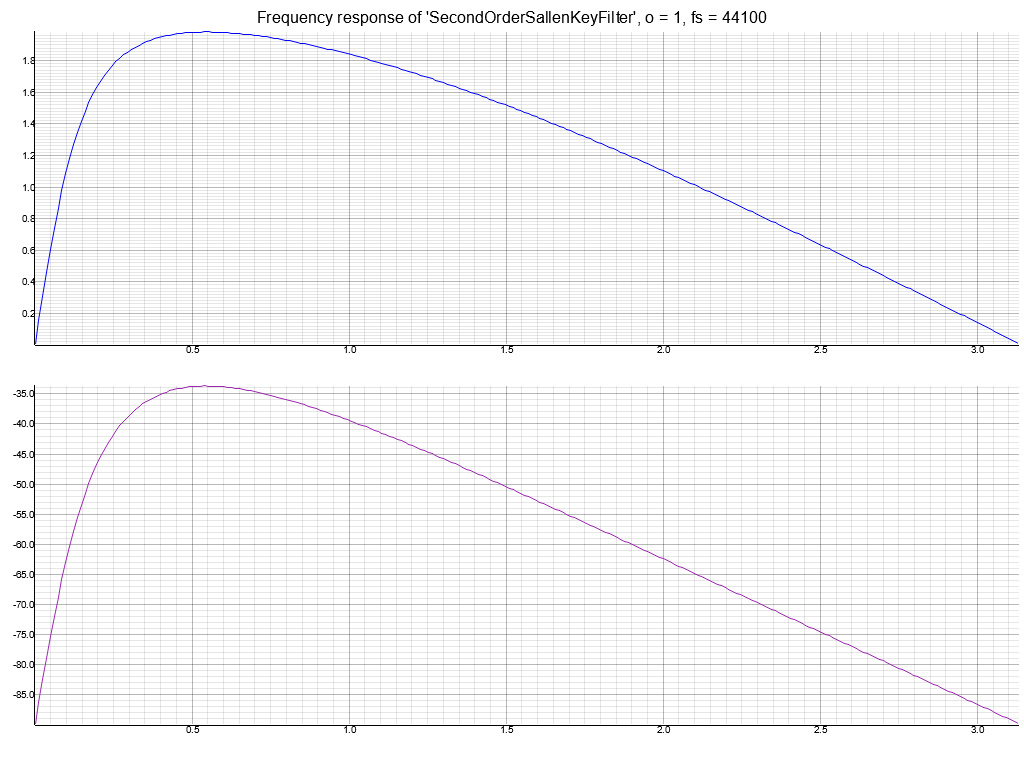
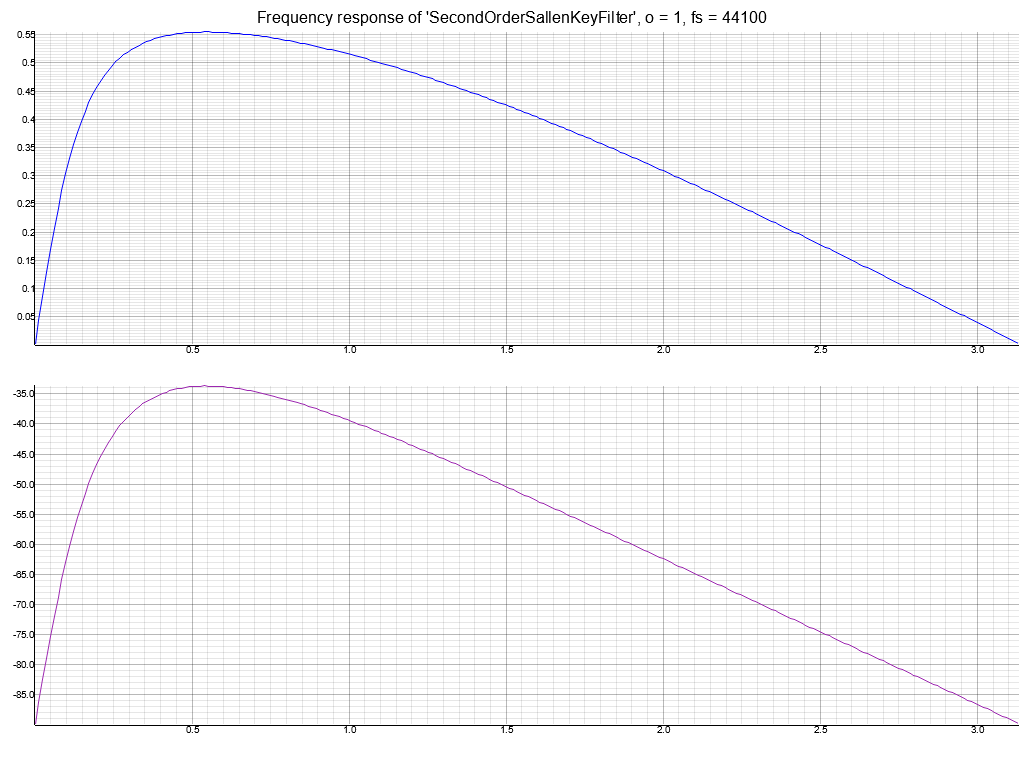
Fix sallen-key gain

Changed region(s): [[0.0, 0.0303, 1.0, 0.4539]]

diff --git a/src/iir/third/third_order_sallen_key_filter.rs b/src/iir/third/third_order_sallen_key_filter.rs
@@ -122,53 +122,53 @@ where
         
         ([], [
             [
-                g*r1*(g*r1),
-                g*r1*(f!(3.0)*g*r1),
-                g*r1*(f!(3.0)*g*r1),
-                g*r1*(g*r1),
+                g*r2*f!(1.0),
+                g*r2*f!(3.0),
+                g*r2*f!(3.0),
+                g*r2*f!(1.0),
             ],
             [
-                g*r1*(g*r1),
-                g*r1*(f!(3.0)*g*r1),
-                g*r1*(f!(3.0)*g*r1),
-                g*r1*(g*r1),
+                c1*g*r1*r2*rate*f!(2.0),
+                c1*g*r1*r2*rate*f!(2.0),
+                c1*g*r1*r2*rate*f!(-2.0),
+                c1*g*r1*r2*rate*f!(-2.0),
             ],
             [
-                c2*c2*g*r1*r2*rate2*(f!(4.0)*c2*c2*g*r1*r2*rate2),
-                c2*c2*g*r1*r2*rate2*(-f!(4.0)*c2*c2*g*r1*r2*rate2),
-                c2*c2*g*r1*r2*rate2*(-f!(4.0)*c2*c2*g*r1*r2*rate2),
-                c2*c2*g*r1*r2*rate2*(f!(4.0)*c2*c2*g*r1*r2*rate2),
+                c2*g*r2*rate*f!(2.0),
+                c2*g*r2*rate*f!(2.0),
+                c2*g*r2*rate*f!(-2.0),
+                c2*g*r2*rate*f!(-2.0),
             ],
             [
-                c2*c2*g*r1*r2*rate2*(f!(4.0)*c2*c2*g*r1*r2*rate2),
-                c2*c2*g*r1*r2*rate2*(-f!(4.0)*c2*c2*g*r1*r2*rate2),
-                c2*c2*g*r1*r2*rate2*(-f!(4.0)*c2*c2*g*r1*r2*rate2),
-                c2*c2*g*r1*r2*rate2*(f!(4.0)*c2*c2*g*r1*r2*rate2),
+                c1*c2*g*r1*r2*rate2*f!(4.0),
+                c1*c2*g*r1*r2*rate2*f!(-4.0),
+                c1*c2*g*r1*r2*rate2*f!(-4.0),
+                c1*c2*g*r1*r2*rate2*f!(4.0),
             ],
             [
-                c3*g*r1*r3*rate*(f!(2.0)*c3*g*r1*r3*rate),
-                c3*g*r1*r3*rate*(f!(2.0)*c3*g*r1*r3*rate),
-                c3*g*r1*r3*rate*(-f!(2.0)*c3*g*r1*r3*rate),
-                c3*g*r1*r3*rate*(-f!(2.0)*c3*g*r1*r3*rate),
+                c3*g*r2*r3*rate*f!(2.0),
+                c3*g*r2*r3*rate*f!(2.0),
+                c3*g*r2*r3*rate*f!(-2.0),
+                c3*g*r2*r3*rate*f!(-2.0),
             ],
             [
-                c3*g*r1*r3*rate*(f!(2.0)*c3*g*r1*r3*rate),
-                c3*g*r1*r3*rate*(f!(2.0)*c3*g*r1*r3*rate),
-                c3*g*r1*r3*rate*(-f!(2.0)*c3*g*r1*r3*rate),
-                c3*g*r1*r3*rate*(-f!(2.0)*c3*g*r1*r3*rate),
+                c1*c3*g*r1*r2*r3*rate2*f!(4.0),
+                c1*c3*g*r1*r2*r3*rate2*f!(-4.0),
+                c1*c3*g*r1*r2*r3*rate2*f!(-4.0),
+                c1*c3*g*r1*r2*r3*rate2*f!(4.0),
             ],
             [
-                c2*c2*c3*g*r1*r2*r3*rate3*(f!(8.0)*c2*c2*c3*g*r1*r2*r3*rate3),
-                c2*c2*c3*g*r1*r2*r3*rate3*(-f!(24.0)*c2*c2*c3*g*r1*r2*r3*rate3),
-                c2*c2*c3*g*r1*r2*r3*rate3*(f!(24.0)*c2*c2*c3*g*r1*r2*r3*rate3),
-                c2*c2*c3*g*r1*r2*r3*rate3*(-f!(8.0)*c2*c2*c3*g*r1*r2*r3*rate3),
+                c2*c3*g*r2*r3*rate2*f!(4.0),
+                c2*c3*g*r2*r3*rate2*f!(-4.0),
+                c2*c3*g*r2*r3*rate2*f!(-4.0),
+                c2*c3*g*r2*r3*rate2*f!(4.0),
             ],
             [
-                c2*c2*c3*g*r1*r2*r3*rate3*(f!(8.0)*c2*c2*c3*g*r1*r2*r3*rate3),
-                c2*c2*c3*g*r1*r2*r3*rate3*(-f!(24.0)*c2*c2*c3*g*r1*r2*r3*rate3),
-                c2*c2*c3*g*r1*r2*r3*rate3*(f!(24.0)*c2*c2*c3*g*r1*r2*r3*rate3),
-                c2*c2*c3*g*r1*r2*r3*rate3*(-f!(8.0)*c2*c2*c3*g*r1*r2*r3*rate3),
-            ]
+                c1*c2*c3*g*r1*r2*r3*rate3*f!(8.0),
+                c1*c2*c3*g*r1*r2*r3*rate3*f!(-24.0),
+                c1*c2*c3*g*r1*r2*r3*rate3*f!(24.0),
+                c1*c2*c3*g*r1*r2*r3*rate3*f!(-8.0),
+            ],
         ])
     }
     
@@ -187,53 +187,53 @@ where
 
         Some(([], [
             [
-                r2*(r2 + f!(2.0)*c3*r2*r3*rate + f!(2.0)*c3*r2*r2*rate + f!(2.0)*c3*r1*r2*rate - f!(2.0)*c2*g*r2*r2*rate - f!(2.0)*c2*g*r1*r2*rate + f!(2.0)*c2*r2*r2*rate + f!(2.0)*c2*r1*r2*rate + f!(4.0)*c2*c3*r2*r2*r3*rate2 + f!(4.0)*c2*c3*r1*r2*r3*rate2 + f!(2.0)*c1*r1*r2*rate + f!(4.0)*c1*c3*r1*r2*r3*rate2 + f!(4.0)*c1*c3*r1*r2*r2*rate2 - f!(4.0)*c1*c2*g*r1*r2*r2*rate2 + f!(4.0)*c1*c2*r1*r2*r2*rate2 + f!(8.0)*c1*c2*c3*r1*r2*r2*r3*rate3),
-                r2*(f!(3.0)*r2 + f!(2.0)*c3*r2*r3*rate + f!(2.0)*c3*r2*r2*rate + f!(2.0)*c3*r1*r2*rate - f!(2.0)*c2*g*r2*r2*rate - f!(2.0)*c2*g*r1*r2*rate + f!(2.0)*c2*r2*r2*rate + f!(2.0)*c2*r1*r2*rate - f!(4.0)*c2*c3*r2*r2*r3*rate2 - f!(4.0)*c2*c3*r1*r2*r3*rate2 + f!(2.0)*c1*r1*r2*rate - f!(4.0)*c1*c3*r1*r2*r3*rate2 - f!(4.0)*c1*c3*r1*r2*r2*rate2 + f!(4.0)*c1*c2*g*r1*r2*r2*rate2 - f!(4.0)*c1*c2*r1*r2*r2*rate2 - f!(24.0)*c1*c2*c3*r1*r2*r2*r3*rate3),
-                r2*(f!(3.0)*r2 - f!(2.0)*c3*r2*r3*rate - f!(2.0)*c3*r2*r2*rate - f!(2.0)*c3*r1*r2*rate + f!(2.0)*c2*g*r2*r2*rate + f!(2.0)*c2*g*r1*r2*rate - f!(2.0)*c2*r2*r2*rate - f!(2.0)*c2*r1*r2*rate - f!(4.0)*c2*c3*r2*r2*r3*rate2 - f!(4.0)*c2*c3*r1*r2*r3*rate2 - f!(2.0)*c1*r1*r2*rate - f!(4.0)*c1*c3*r1*r2*r3*rate2 - f!(4.0)*c1*c3*r1*r2*r2*rate2 + f!(4.0)*c1*c2*g*r1*r2*r2*rate2 - f!(4.0)*c1*c2*r1*r2*r2*rate2 + f!(24.0)*c1*c2*c3*r1*r2*r2*r3*rate3),
-                r2*(r2 - f!(2.0)*c3*r2*r3*rate - f!(2.0)*c3*r2*r2*rate - f!(2.0)*c3*r1*r2*rate + f!(2.0)*c2*g*r2*r2*rate + f!(2.0)*c2*g*r1*r2*rate - f!(2.0)*c2*r2*r2*rate - f!(2.0)*c2*r1*r2*rate + f!(4.0)*c2*c3*r2*r2*r3*rate2 + f!(4.0)*c2*c3*r1*r2*r3*rate2 - f!(2.0)*c1*r1*r2*rate + f!(4.0)*c1*c3*r1*r2*r3*rate2 + f!(4.0)*c1*c3*r1*r2*r2*rate2 - f!(4.0)*c1*c2*g*r1*r2*r2*rate2 + f!(4.0)*c1*c2*r1*r2*r2*rate2 - f!(8.0)*c1*c2*c3*r1*r2*r2*r3*rate3),
+                f!(8.0)*c1*c2*c3*r1*r2*r2*r3*rate3 + f!(4.0)*c1*c2*r1*r2*r2*rate2 - f!(4.0)*c1*c2*g*r1*r2*r2*rate2 + f!(4.0)*c1*c3*r1*r2*r3*rate2 + f!(4.0)*c1*c3*r1*r2*r2*rate2 + f!(2.0)*c1*r1*r2*rate + f!(4.0)*c2*c3*r2*r2*r3*rate2 + f!(4.0)*c2*c3*r1*r2*r3*rate2 + f!(2.0)*c2*r2*r2*rate + f!(2.0)*c2*r1*r2*rate - f!(2.0)*c2*g*r2*r2*rate - f!(2.0)*c2*g*r1*r2*rate + f!(2.0)*c3*r2*r3*rate + f!(2.0)*c3*r2*r2*rate + f!(4.0)*c3*r1*r3*rate + f!(2.0)*c3*r1*r2*rate + r2 + f!(2.0)*r1,
+                -f!(24.0)*c1*c2*c3*r1*r2*r2*r3*rate3 - f!(4.0)*c1*c2*r1*r2*r2*rate2 + f!(4.0)*c1*c2*g*r1*r2*r2*rate2 - f!(4.0)*c1*c3*r1*r2*r3*rate2 - f!(4.0)*c1*c3*r1*r2*r2*rate2 + f!(2.0)*c1*r1*r2*rate - f!(4.0)*c2*c3*r2*r2*r3*rate2 - f!(4.0)*c2*c3*r1*r2*r3*rate2 + f!(2.0)*c2*r2*r2*rate + f!(2.0)*c2*r1*r2*rate - f!(2.0)*c2*g*r2*r2*rate - f!(2.0)*c2*g*r1*r2*rate + f!(2.0)*c3*r2*r3*rate + f!(2.0)*c3*r2*r2*rate + f!(4.0)*c3*r1*r3*rate + f!(2.0)*c3*r1*r2*rate + f!(3.0)*r2 + f!(6.0)*r1,
+                f!(24.0)*c1*c2*c3*r1*r2*r2*r3*rate3 - f!(4.0)*c1*c2*r1*r2*r2*rate2 + f!(4.0)*c1*c2*g*r1*r2*r2*rate2 - f!(4.0)*c1*c3*r1*r2*r3*rate2 - f!(4.0)*c1*c3*r1*r2*r2*rate2 - f!(2.0)*c1*r1*r2*rate - f!(4.0)*c2*c3*r2*r2*r3*rate2 - f!(4.0)*c2*c3*r1*r2*r3*rate2 - f!(2.0)*c2*r2*r2*rate - f!(2.0)*c2*r1*r2*rate + f!(2.0)*c2*g*r2*r2*rate + f!(2.0)*c2*g*r1*r2*rate - f!(2.0)*c3*r2*r3*rate - f!(2.0)*c3*r2*r2*rate - f!(4.0)*c3*r1*r3*rate - f!(2.0)*c3*r1*r2*rate + f!(3.0)*r2 + f!(6.0)*r1,
+                -f!(8.0)*c1*c2*c3*r1*r2*r2*r3*rate3 + f!(4.0)*c1*c2*r1*r2*r2*rate2 - f!(4.0)*c1*c2*g*r1*r2*r2*rate2 + f!(4.0)*c1*c3*r1*r2*r3*rate2 + f!(4.0)*c1*c3*r1*r2*r2*rate2 - f!(2.0)*c1*r1*r2*rate + f!(4.0)*c2*c3*r2*r2*r3*rate2 + f!(4.0)*c2*c3*r1*r2*r3*rate2 - f!(2.0)*c2*r2*r2*rate - f!(2.0)*c2*r1*r2*rate + f!(2.0)*c2*g*r2*r2*rate + f!(2.0)*c2*g*r1*r2*rate - f!(2.0)*c3*r2*r3*rate - f!(2.0)*c3*r2*r2*rate - f!(4.0)*c3*r1*r3*rate - f!(2.0)*c3*r1*r2*rate + r2 + f!(2.0)*r1,
             ],
             [
-                r2*(f!(2.0)*c1*r1*r2*rate + f!(4.0)*c1*c3*r1*r2*r3*rate2 + f!(4.0)*c1*c3*r1*r2*r2*rate2 - f!(4.0)*c1*c2*g*r1*r2*r2*rate2 + f!(4.0)*c1*c2*r1*r2*r2*rate2 + f!(8.0)*c1*c2*c3*r1*r2*r2*r3*rate3 + r2 + f!(2.0)*c3*r1*r2*rate + f!(2.0)*c3*r2*r3*rate + f!(2.0)*c3*r2*r2*rate - f!(2.0)*c2*g*r1*r2*rate - f!(2.0)*c2*g*r2*r2*rate + f!(2.0)*c2*r1*r2*rate + f!(2.0)*c2*r2*r2*rate + f!(4.0)*c2*c3*r1*r2*r3*rate2 + f!(4.0)*c2*c3*r2*r2*r3*rate2),
-                r2*(f!(2.0)*c1*r1*r2*rate - f!(4.0)*c1*c3*r1*r2*r3*rate2 - f!(4.0)*c1*c3*r1*r2*r2*rate2 + f!(4.0)*c1*c2*g*r1*r2*r2*rate2 - f!(4.0)*c1*c2*r1*r2*r2*rate2 - f!(24.0)*c1*c2*c3*r1*r2*r2*r3*rate3 + f!(3.0)*r2 + f!(2.0)*c3*r1*r2*rate + f!(2.0)*c3*r2*r3*rate + f!(2.0)*c3*r2*r2*rate - f!(2.0)*c2*g*r1*r2*rate - f!(2.0)*c2*g*r2*r2*rate + f!(2.0)*c2*r1*r2*rate + f!(2.0)*c2*r2*r2*rate - f!(4.0)*c2*c3*r1*r2*r3*rate2 - f!(4.0)*c2*c3*r2*r2*r3*rate2),
-                r2*(-f!(2.0)*c1*r1*r2*rate - f!(4.0)*c1*c3*r1*r2*r3*rate2 - f!(4.0)*c1*c3*r1*r2*r2*rate2 + f!(4.0)*c1*c2*g*r1*r2*r2*rate2 - f!(4.0)*c1*c2*r1*r2*r2*rate2 + f!(24.0)*c1*c2*c3*r1*r2*r2*r3*rate3 + f!(3.0)*r2 - f!(2.0)*c3*r1*r2*rate - f!(2.0)*c3*r2*r3*rate - f!(2.0)*c3*r2*r2*rate + f!(2.0)*c2*g*r1*r2*rate + f!(2.0)*c2*g*r2*r2*rate - f!(2.0)*c2*r1*r2*rate - f!(2.0)*c2*r2*r2*rate - f!(4.0)*c2*c3*r1*r2*r3*rate2 - f!(4.0)*c2*c3*r2*r2*r3*rate2),
-                r2*(-f!(2.0)*c1*r1*r2*rate + f!(4.0)*c1*c3*r1*r2*r3*rate2 + f!(4.0)*c1*c3*r1*r2*r2*rate2 - f!(4.0)*c1*c2*g*r1*r2*r2*rate2 + f!(4.0)*c1*c2*r1*r2*r2*rate2 - f!(8.0)*c1*c2*c3*r1*r2*r2*r3*rate3 + r2 - f!(2.0)*c3*r1*r2*rate - f!(2.0)*c3*r2*r3*rate - f!(2.0)*c3*r2*r2*rate + f!(2.0)*c2*g*r1*r2*rate + f!(2.0)*c2*g*r2*r2*rate - f!(2.0)*c2*r1*r2*rate - f!(2.0)*c2*r2*r2*rate + f!(4.0)*c2*c3*r1*r2*r3*rate2 + f!(4.0)*c2*c3*r2*r2*r3*rate2),
+                f!(8.0)*c1*c2*c3*r1*r2*r2*r3*rate3 + f!(4.0)*c1*c2*r1*r2*r2*rate2 - f!(4.0)*c1*c2*g*r1*r2*r2*rate2 + f!(4.0)*c1*c3*r1*r2*r3*rate2 + f!(4.0)*c1*c3*r1*r2*r2*rate2 + f!(2.0)*c1*r1*r2*rate + f!(4.0)*c2*c3*r1*r2*r3*rate2 + f!(4.0)*c2*c3*r2*r2*r3*rate2 + f!(2.0)*c2*r1*r2*rate + f!(2.0)*c2*r2*r2*rate - f!(2.0)*c2*g*r1*r2*rate - f!(2.0)*c2*g*r2*r2*rate + f!(4.0)*c3*r1*r3*rate + f!(2.0)*c3*r1*r2*rate + f!(2.0)*c3*r2*r3*rate + f!(2.0)*c3*r2*r2*rate + f!(2.0)*r1 + r2,
+                -f!(24.0)*c1*c2*c3*r1*r2*r2*r3*rate3 - f!(4.0)*c1*c2*r1*r2*r2*rate2 + f!(4.0)*c1*c2*g*r1*r2*r2*rate2 - f!(4.0)*c1*c3*r1*r2*r3*rate2 - f!(4.0)*c1*c3*r1*r2*r2*rate2 + f!(2.0)*c1*r1*r2*rate - f!(4.0)*c2*c3*r1*r2*r3*rate2 - f!(4.0)*c2*c3*r2*r2*r3*rate2 + f!(2.0)*c2*r1*r2*rate + f!(2.0)*c2*r2*r2*rate - f!(2.0)*c2*g*r1*r2*rate - f!(2.0)*c2*g*r2*r2*rate + f!(4.0)*c3*r1*r3*rate + f!(2.0)*c3*r1*r2*rate + f!(2.0)*c3*r2*r3*rate + f!(2.0)*c3*r2*r2*rate + f!(6.0)*r1 + f!(3.0)*r2,
+                f!(24.0)*c1*c2*c3*r1*r2*r2*r3*rate3 - f!(4.0)*c1*c2*r1*r2*r2*rate2 + f!(4.0)*c1*c2*g*r1*r2*r2*rate2 - f!(4.0)*c1*c3*r1*r2*r3*rate2 - f!(4.0)*c1*c3*r1*r2*r2*rate2 - f!(2.0)*c1*r1*r2*rate - f!(4.0)*c2*c3*r1*r2*r3*rate2 - f!(4.0)*c2*c3*r2*r2*r3*rate2 - f!(2.0)*c2*r1*r2*rate - f!(2.0)*c2*r2*r2*rate + f!(2.0)*c2*g*r1*r2*rate + f!(2.0)*c2*g*r2*r2*rate - f!(4.0)*c3*r1*r3*rate - f!(2.0)*c3*r1*r2*rate - f!(2.0)*c3*r2*r3*rate - f!(2.0)*c3*r2*r2*rate + f!(6.0)*r1 + f!(3.0)*r2,
+                -f!(8.0)*c1*c2*c3*r1*r2*r2*r3*rate3 + f!(4.0)*c1*c2*r1*r2*r2*rate2 - f!(4.0)*c1*c2*g*r1*r2*r2*rate2 + f!(4.0)*c1*c3*r1*r2*r3*rate2 + f!(4.0)*c1*c3*r1*r2*r2*rate2 - f!(2.0)*c1*r1*r2*rate + f!(4.0)*c2*c3*r1*r2*r3*rate2 + f!(4.0)*c2*c3*r2*r2*r3*rate2 - f!(2.0)*c2*r1*r2*rate - f!(2.0)*c2*r2*r2*rate + f!(2.0)*c2*g*r1*r2*rate + f!(2.0)*c2*g*r2*r2*rate - f!(4.0)*c3*r1*r3*rate - f!(2.0)*c3*r1*r2*rate - f!(2.0)*c3*r2*r3*rate - f!(2.0)*c3*r2*r2*rate + f!(2.0)*r1 + r2,
             ],
             [
-                -g + f!(1.0) + f!(2.0)*c3*r2*rate + f!(2.0)*c3*r3*rate - f!(2.0)*c2*g*r1*rate + f!(2.0)*c2*r2*rate + f!(2.0)*c2*r1*rate + f!(4.0)*c2*c3*r2*r3*rate2 + f!(4.0)*c2*c3*r1*r2*rate2 + f!(4.0)*c2*c3*r1*r3*rate2 - f!(2.0)*c1*g*r1*rate + f!(2.0)*c1*r1*rate + f!(4.0)*c1*c3*r1*r2*rate2 + f!(4.0)*c1*c3*r1*r3*rate2 + f!(4.0)*c1*c2*r1*r2*rate2 + f!(8.0)*c1*c2*c3*r1*r2*r3*rate3,
-                -f!(3.0)*g + f!(3.0) + f!(2.0)*c3*r2*rate + f!(2.0)*c3*r3*rate - f!(2.0)*c2*g*r1*rate + f!(2.0)*c2*r2*rate + f!(2.0)*c2*r1*rate - f!(4.0)*c2*c3*r2*r3*rate2 - f!(4.0)*c2*c3*r1*r2*rate2 - f!(4.0)*c2*c3*r1*r3*rate2 - f!(2.0)*c1*g*r1*rate + f!(2.0)*c1*r1*rate - f!(4.0)*c1*c3*r1*r2*rate2 - f!(4.0)*c1*c3*r1*r3*rate2 - f!(4.0)*c1*c2*r1*r2*rate2 - f!(24.0)*c1*c2*c3*r1*r2*r3*rate3,
-                -f!(3.0)*g + f!(3.0) - f!(2.0)*c3*r2*rate - f!(2.0)*c3*r3*rate + f!(2.0)*c2*g*r1*rate - f!(2.0)*c2*r2*rate - f!(2.0)*c2*r1*rate - f!(4.0)*c2*c3*r2*r3*rate2 - f!(4.0)*c2*c3*r1*r2*rate2 - f!(4.0)*c2*c3*r1*r3*rate2 + f!(2.0)*c1*g*r1*rate - f!(2.0)*c1*r1*rate - f!(4.0)*c1*c3*r1*r2*rate2 - f!(4.0)*c1*c3*r1*r3*rate2 - f!(4.0)*c1*c2*r1*r2*rate2 + f!(24.0)*c1*c2*c3*r1*r2*r3*rate3,
-                -g + f!(1.0) - f!(2.0)*c3*r2*rate - f!(2.0)*c3*r3*rate + f!(2.0)*c2*g*r1*rate - f!(2.0)*c2*r2*rate - f!(2.0)*c2*r1*rate + f!(4.0)*c2*c3*r2*r3*rate2 + f!(4.0)*c2*c3*r1*r2*rate2 + f!(4.0)*c2*c3*r1*r3*rate2 + f!(2.0)*c1*g*r1*rate - f!(2.0)*c1*r1*rate + f!(4.0)*c1*c3*r1*r2*rate2 + f!(4.0)*c1*c3*r1*r3*rate2 + f!(4.0)*c1*c2*r1*r2*rate2 - f!(8.0)*c1*c2*c3*r1*r2*r3*rate3,
+                f!(4.0)*c1*c3*r1*r2*rate2 + f!(4.0)*c1*c3*r1*r3*rate2 + f!(2.0)*c1*r1*rate - f!(2.0)*c1*g*r1*rate + f!(8.0)*c1*c2*c3*r1*r2*r3*rate3 + f!(4.0)*c1*c2*r1*r2*rate2 + f!(2.0)*c3*r2*rate + f!(2.0)*c3*r3*rate + f!(1.0) - g + f!(4.0)*c2*c3*r2*r3*rate2 + f!(4.0)*c2*c3*r1*r2*rate2 + f!(4.0)*c2*c3*r1*r3*rate2 + f!(2.0)*c2*r2*rate + f!(2.0)*c2*r1*rate - f!(2.0)*c2*g*r1*rate + f!(16.0)*c2*c2*c3*r1*r2*r3*rate3 + f!(8.0)*c2*c2*r1*r2*rate2,
+                -f!(4.0)*c1*c3*r1*r2*rate2 - f!(4.0)*c1*c3*r1*r3*rate2 + f!(2.0)*c1*r1*rate - f!(2.0)*c1*g*r1*rate - f!(24.0)*c1*c2*c3*r1*r2*r3*rate3 - f!(4.0)*c1*c2*r1*r2*rate2 + f!(2.0)*c3*r2*rate + f!(2.0)*c3*r3*rate + f!(3.0) - f!(3.0)*g - f!(4.0)*c2*c3*r2*r3*rate2 - f!(4.0)*c2*c3*r1*r2*rate2 - f!(4.0)*c2*c3*r1*r3*rate2 + f!(2.0)*c2*r2*rate + f!(2.0)*c2*r1*rate - f!(2.0)*c2*g*r1*rate - f!(48.0)*c2*c2*c3*r1*r2*r3*rate3 - f!(8.0)*c2*c2*r1*r2*rate2,
+                -f!(4.0)*c1*c3*r1*r2*rate2 - f!(4.0)*c1*c3*r1*r3*rate2 - f!(2.0)*c1*r1*rate + f!(2.0)*c1*g*r1*rate + f!(24.0)*c1*c2*c3*r1*r2*r3*rate3 - f!(4.0)*c1*c2*r1*r2*rate2 - f!(2.0)*c3*r2*rate - f!(2.0)*c3*r3*rate + f!(3.0) - f!(3.0)*g - f!(4.0)*c2*c3*r2*r3*rate2 - f!(4.0)*c2*c3*r1*r2*rate2 - f!(4.0)*c2*c3*r1*r3*rate2 - f!(2.0)*c2*r2*rate - f!(2.0)*c2*r1*rate + f!(2.0)*c2*g*r1*rate + f!(48.0)*c2*c2*c3*r1*r2*r3*rate3 - f!(8.0)*c2*c2*r1*r2*rate2,
+                f!(4.0)*c1*c3*r1*r2*rate2 + f!(4.0)*c1*c3*r1*r3*rate2 - f!(2.0)*c1*r1*rate + f!(2.0)*c1*g*r1*rate - f!(8.0)*c1*c2*c3*r1*r2*r3*rate3 + f!(4.0)*c1*c2*r1*r2*rate2 - f!(2.0)*c3*r2*rate - f!(2.0)*c3*r3*rate + f!(1.0) - g + f!(4.0)*c2*c3*r2*r3*rate2 + f!(4.0)*c2*c3*r1*r2*rate2 + f!(4.0)*c2*c3*r1*r3*rate2 - f!(2.0)*c2*r2*rate - f!(2.0)*c2*r1*rate + f!(2.0)*c2*g*r1*rate - f!(16.0)*c2*c2*c3*r1*r2*r3*rate3 + f!(8.0)*c2*c2*r1*r2*rate2,
             ],
             [
-                -f!(2.0)*c1*g*r1*rate + f!(2.0)*c1*r1*rate + f!(4.0)*c1*c3*r1*r2*rate2 + f!(4.0)*c1*c3*r1*r3*rate2 + f!(4.0)*c1*c2*r1*r2*rate2 + f!(8.0)*c1*c2*c3*r1*r2*r3*rate3 + f!(1.0) - g + f!(2.0)*c3*r2*rate + f!(2.0)*c3*r3*rate - f!(2.0)*c2*g*r1*rate + f!(2.0)*c2*r1*rate + f!(2.0)*c2*r2*rate + f!(4.0)*c2*c3*r1*r2*rate2 + f!(4.0)*c2*c3*r1*r3*rate2 + f!(4.0)*c2*c3*r2*r3*rate2,
-                -f!(2.0)*c1*g*r1*rate + f!(2.0)*c1*r1*rate - f!(4.0)*c1*c3*r1*r2*rate2 - f!(4.0)*c1*c3*r1*r3*rate2 - f!(4.0)*c1*c2*r1*r2*rate2 - f!(24.0)*c1*c2*c3*r1*r2*r3*rate3 + f!(3.0) - f!(3.0)*g + f!(2.0)*c3*r2*rate + f!(2.0)*c3*r3*rate - f!(2.0)*c2*g*r1*rate + f!(2.0)*c2*r1*rate + f!(2.0)*c2*r2*rate - f!(4.0)*c2*c3*r1*r2*rate2 - f!(4.0)*c2*c3*r1*r3*rate2 - f!(4.0)*c2*c3*r2*r3*rate2,
-                f!(2.0)*c1*g*r1*rate - f!(2.0)*c1*r1*rate - f!(4.0)*c1*c3*r1*r2*rate2 - f!(4.0)*c1*c3*r1*r3*rate2 - f!(4.0)*c1*c2*r1*r2*rate2 + f!(24.0)*c1*c2*c3*r1*r2*r3*rate3 + f!(3.0) - f!(3.0)*g - f!(2.0)*c3*r2*rate - f!(2.0)*c3*r3*rate + f!(2.0)*c2*g*r1*rate - f!(2.0)*c2*r1*rate - f!(2.0)*c2*r2*rate - f!(4.0)*c2*c3*r1*r2*rate2 - f!(4.0)*c2*c3*r1*r3*rate2 - f!(4.0)*c2*c3*r2*r3*rate2,
-                f!(2.0)*c1*g*r1*rate - f!(2.0)*c1*r1*rate + f!(4.0)*c1*c3*r1*r2*rate2 + f!(4.0)*c1*c3*r1*r3*rate2 + f!(4.0)*c1*c2*r1*r2*rate2 - f!(8.0)*c1*c2*c3*r1*r2*r3*rate3 + f!(1.0) - g - f!(2.0)*c3*r2*rate - f!(2.0)*c3*r3*rate + f!(2.0)*c2*g*r1*rate - f!(2.0)*c2*r1*rate - f!(2.0)*c2*r2*rate + f!(4.0)*c2*c3*r1*r2*rate2 + f!(4.0)*c2*c3*r1*r3*rate2 + f!(4.0)*c2*c3*r2*r3*rate2,
+                f!(4.0)*c1*c3*r1*r2*rate2 + f!(4.0)*c1*c3*r1*r3*rate2 + f!(2.0)*c1*r1*rate - f!(2.0)*c1*g*r1*rate + f!(8.0)*c1*c2*c3*r1*r2*r3*rate3 + f!(4.0)*c1*c2*r1*r2*rate2 + f!(2.0)*c3*r2*rate + f!(2.0)*c3*r3*rate + f!(1.0) - g + f!(4.0)*c2*c3*r1*r2*rate2 + f!(4.0)*c2*c3*r1*r3*rate2 + f!(4.0)*c2*c3*r2*r3*rate2 + f!(2.0)*c2*r1*rate + f!(2.0)*c2*r2*rate - f!(2.0)*c2*g*r1*rate + f!(16.0)*c2*c2*c3*r1*r2*r3*rate3 + f!(8.0)*c2*c2*r1*r2*rate2,
+                -f!(4.0)*c1*c3*r1*r2*rate2 - f!(4.0)*c1*c3*r1*r3*rate2 + f!(2.0)*c1*r1*rate - f!(2.0)*c1*g*r1*rate - f!(24.0)*c1*c2*c3*r1*r2*r3*rate3 - f!(4.0)*c1*c2*r1*r2*rate2 + f!(2.0)*c3*r2*rate + f!(2.0)*c3*r3*rate + f!(3.0) - f!(3.0)*g - f!(4.0)*c2*c3*r1*r2*rate2 - f!(4.0)*c2*c3*r1*r3*rate2 - f!(4.0)*c2*c3*r2*r3*rate2 + f!(2.0)*c2*r1*rate + f!(2.0)*c2*r2*rate - f!(2.0)*c2*g*r1*rate - f!(48.0)*c2*c2*c3*r1*r2*r3*rate3 - f!(8.0)*c2*c2*r1*r2*rate2,
+                -f!(4.0)*c1*c3*r1*r2*rate2 - f!(4.0)*c1*c3*r1*r3*rate2 - f!(2.0)*c1*r1*rate + f!(2.0)*c1*g*r1*rate + f!(24.0)*c1*c2*c3*r1*r2*r3*rate3 - f!(4.0)*c1*c2*r1*r2*rate2 - f!(2.0)*c3*r2*rate - f!(2.0)*c3*r3*rate + f!(3.0) - f!(3.0)*g - f!(4.0)*c2*c3*r1*r2*rate2 - f!(4.0)*c2*c3*r1*r3*rate2 - f!(4.0)*c2*c3*r2*r3*rate2 - f!(2.0)*c2*r1*rate - f!(2.0)*c2*r2*rate + f!(2.0)*c2*g*r1*rate + f!(48.0)*c2*c2*c3*r1*r2*r3*rate3 - f!(8.0)*c2*c2*r1*r2*rate2,
+                f!(4.0)*c1*c3*r1*r2*rate2 + f!(4.0)*c1*c3*r1*r3*rate2 - f!(2.0)*c1*r1*rate + f!(2.0)*c1*g*r1*rate - f!(8.0)*c1*c2*c3*r1*r2*r3*rate3 + f!(4.0)*c1*c2*r1*r2*rate2 - f!(2.0)*c3*r2*rate - f!(2.0)*c3*r3*rate + f!(1.0) - g + f!(4.0)*c2*c3*r1*r2*rate2 + f!(4.0)*c2*c3*r1*r3*rate2 + f!(4.0)*c2*c3*r2*r3*rate2 - f!(2.0)*c2*r1*rate - f!(2.0)*c2*r2*rate + f!(2.0)*c2*g*r1*rate - f!(16.0)*c2*c2*c3*r1*r2*r3*rate3 + f!(8.0)*c2*c2*r1*r2*rate2,
             ],
             [
-                r2*(r2 + f!(2.0)*c3*r2*r3*rate + f!(2.0)*c3*r2*r2*rate + f!(2.0)*c3*r1*r2*rate + f!(2.0)*c2*r2*r2*rate + f!(2.0)*c2*r1*r2*rate - f!(4.0)*c2*c3*g*r2*r2*r3*rate2 - f!(4.0)*c2*c3*g*r1*r2*r3*rate2 + f!(4.0)*c2*c3*r2*r2*r3*rate2 + f!(4.0)*c2*c3*r1*r2*r3*rate2 + f!(2.0)*c1*r1*r2*rate + f!(4.0)*c1*c3*r1*r2*r3*rate2 + f!(4.0)*c1*c3*r1*r2*r2*rate2 + f!(4.0)*c1*c2*r1*r2*r2*rate2 - f!(8.0)*c1*c2*c3*g*r1*r2*r2*r3*rate3 + f!(8.0)*c1*c2*c3*r1*r2*r2*r3*rate3),
-                r2*(f!(3.0)*r2 + f!(2.0)*c3*r2*r3*rate + f!(2.0)*c3*r2*r2*rate + f!(2.0)*c3*r1*r2*rate + f!(2.0)*c2*r2*r2*rate + f!(2.0)*c2*r1*r2*rate + f!(4.0)*c2*c3*g*r2*r2*r3*rate2 + f!(4.0)*c2*c3*g*r1*r2*r3*rate2 - f!(4.0)*c2*c3*r2*r2*r3*rate2 - f!(4.0)*c2*c3*r1*r2*r3*rate2 + f!(2.0)*c1*r1*r2*rate - f!(4.0)*c1*c3*r1*r2*r3*rate2 - f!(4.0)*c1*c3*r1*r2*r2*rate2 - f!(4.0)*c1*c2*r1*r2*r2*rate2 + f!(24.0)*c1*c2*c3*g*r1*r2*r2*r3*rate3 - f!(24.0)*c1*c2*c3*r1*r2*r2*r3*rate3),
-                r2*(f!(3.0)*r2 - f!(2.0)*c3*r2*r3*rate - f!(2.0)*c3*r2*r2*rate - f!(2.0)*c3*r1*r2*rate - f!(2.0)*c2*r2*r2*rate - f!(2.0)*c2*r1*r2*rate + f!(4.0)*c2*c3*g*r2*r2*r3*rate2 + f!(4.0)*c2*c3*g*r1*r2*r3*rate2 - f!(4.0)*c2*c3*r2*r2*r3*rate2 - f!(4.0)*c2*c3*r1*r2*r3*rate2 - f!(2.0)*c1*r1*r2*rate - f!(4.0)*c1*c3*r1*r2*r3*rate2 - f!(4.0)*c1*c3*r1*r2*r2*rate2 - f!(4.0)*c1*c2*r1*r2*r2*rate2 - f!(24.0)*c1*c2*c3*g*r1*r2*r2*r3*rate3 + f!(24.0)*c1*c2*c3*r1*r2*r2*r3*rate3),
-                r2*(r2 - f!(2.0)*c3*r2*r3*rate - f!(2.0)*c3*r2*r2*rate - f!(2.0)*c3*r1*r2*rate - f!(2.0)*c2*r2*r2*rate - f!(2.0)*c2*r1*r2*rate - f!(4.0)*c2*c3*g*r2*r2*r3*rate2 - f!(4.0)*c2*c3*g*r1*r2*r3*rate2 + f!(4.0)*c2*c3*r2*r2*r3*rate2 + f!(4.0)*c2*c3*r1*r2*r3*rate2 - f!(2.0)*c1*r1*r2*rate + f!(4.0)*c1*c3*r1*r2*r3*rate2 + f!(4.0)*c1*c3*r1*r2*r2*rate2 + f!(4.0)*c1*c2*r1*r2*r2*rate2 + f!(8.0)*c1*c2*c3*g*r1*r2*r2*r3*rate3 - f!(8.0)*c1*c2*c3*r1*r2*r2*r3*rate3),
+                f!(4.0)*c1*c2*r1*r2*r2*rate2 + f!(8.0)*c1*c2*c3*r1*r2*r2*r3*rate3 - f!(8.0)*c1*c2*c3*g*r1*r2*r2*r3*rate3 + f!(2.0)*c1*r1*r2*rate + f!(4.0)*c1*c3*r1*r2*r3*rate2 + f!(4.0)*c1*c3*r1*r2*r2*rate2 + f!(2.0)*c2*r2*r2*rate + f!(2.0)*c2*r1*r2*rate + f!(4.0)*c2*c3*r2*r2*r3*rate2 + f!(4.0)*c2*c3*r1*r2*r3*rate2 - f!(4.0)*c2*c3*g*r2*r2*r3*rate2 - f!(4.0)*c2*c3*g*r1*r2*r3*rate2 + r2 + f!(2.0)*r1 + f!(2.0)*c3*r2*r3*rate + f!(2.0)*c3*r2*r2*rate + f!(4.0)*c3*r1*r3*rate + f!(2.0)*c3*r1*r2*rate,
+                -f!(4.0)*c1*c2*r1*r2*r2*rate2 - f!(24.0)*c1*c2*c3*r1*r2*r2*r3*rate3 + f!(24.0)*c1*c2*c3*g*r1*r2*r2*r3*rate3 + f!(2.0)*c1*r1*r2*rate - f!(4.0)*c1*c3*r1*r2*r3*rate2 - f!(4.0)*c1*c3*r1*r2*r2*rate2 + f!(2.0)*c2*r2*r2*rate + f!(2.0)*c2*r1*r2*rate - f!(4.0)*c2*c3*r2*r2*r3*rate2 - f!(4.0)*c2*c3*r1*r2*r3*rate2 + f!(4.0)*c2*c3*g*r2*r2*r3*rate2 + f!(4.0)*c2*c3*g*r1*r2*r3*rate2 + f!(3.0)*r2 + f!(6.0)*r1 + f!(2.0)*c3*r2*r3*rate + f!(2.0)*c3*r2*r2*rate + f!(4.0)*c3*r1*r3*rate + f!(2.0)*c3*r1*r2*rate,
+                -f!(4.0)*c1*c2*r1*r2*r2*rate2 + f!(24.0)*c1*c2*c3*r1*r2*r2*r3*rate3 - f!(24.0)*c1*c2*c3*g*r1*r2*r2*r3*rate3 - f!(2.0)*c1*r1*r2*rate - f!(4.0)*c1*c3*r1*r2*r3*rate2 - f!(4.0)*c1*c3*r1*r2*r2*rate2 - f!(2.0)*c2*r2*r2*rate - f!(2.0)*c2*r1*r2*rate - f!(4.0)*c2*c3*r2*r2*r3*rate2 - f!(4.0)*c2*c3*r1*r2*r3*rate2 + f!(4.0)*c2*c3*g*r2*r2*r3*rate2 + f!(4.0)*c2*c3*g*r1*r2*r3*rate2 + f!(3.0)*r2 + f!(6.0)*r1 - f!(2.0)*c3*r2*r3*rate - f!(2.0)*c3*r2*r2*rate - f!(4.0)*c3*r1*r3*rate - f!(2.0)*c3*r1*r2*rate,
+                f!(4.0)*c1*c2*r1*r2*r2*rate2 - f!(8.0)*c1*c2*c3*r1*r2*r2*r3*rate3 + f!(8.0)*c1*c2*c3*g*r1*r2*r2*r3*rate3 - f!(2.0)*c1*r1*r2*rate + f!(4.0)*c1*c3*r1*r2*r3*rate2 + f!(4.0)*c1*c3*r1*r2*r2*rate2 - f!(2.0)*c2*r2*r2*rate - f!(2.0)*c2*r1*r2*rate + f!(4.0)*c2*c3*r2*r2*r3*rate2 + f!(4.0)*c2*c3*r1*r2*r3*rate2 - f!(4.0)*c2*c3*g*r2*r2*r3*rate2 - f!(4.0)*c2*c3*g*r1*r2*r3*rate2 + r2 + f!(2.0)*r1 - f!(2.0)*c3*r2*r3*rate - f!(2.0)*c3*r2*r2*rate - f!(4.0)*c3*r1*r3*rate - f!(2.0)*c3*r1*r2*rate,
             ],
             [
-                r2*(f!(2.0)*c1*r1*r2*rate + f!(4.0)*c1*c3*r1*r2*r3*rate2 + f!(4.0)*c1*c3*r1*r2*r2*rate2 + f!(4.0)*c1*c2*r1*r2*r2*rate2 - f!(8.0)*c1*c2*c3*g*r1*r2*r2*r3*rate3 + f!(8.0)*c1*c2*c3*r1*r2*r2*r3*rate3 + r2 + f!(2.0)*c3*r1*r2*rate + f!(2.0)*c3*r2*r3*rate + f!(2.0)*c3*r2*r2*rate + f!(2.0)*c2*r1*r2*rate + f!(2.0)*c2*r2*r2*rate - f!(4.0)*c2*c3*g*r1*r2*r3*rate2 - f!(4.0)*c2*c3*g*r2*r2*r3*rate2 + f!(4.0)*c2*c3*r1*r2*r3*rate2 + f!(4.0)*c2*c3*r2*r2*r3*rate2),
-                r2*(f!(2.0)*c1*r1*r2*rate - f!(4.0)*c1*c3*r1*r2*r3*rate2 - f!(4.0)*c1*c3*r1*r2*r2*rate2 - f!(4.0)*c1*c2*r1*r2*r2*rate2 + f!(24.0)*c1*c2*c3*g*r1*r2*r2*r3*rate3 - f!(24.0)*c1*c2*c3*r1*r2*r2*r3*rate3 + f!(3.0)*r2 + f!(2.0)*c3*r1*r2*rate + f!(2.0)*c3*r2*r3*rate + f!(2.0)*c3*r2*r2*rate + f!(2.0)*c2*r1*r2*rate + f!(2.0)*c2*r2*r2*rate + f!(4.0)*c2*c3*g*r1*r2*r3*rate2 + f!(4.0)*c2*c3*g*r2*r2*r3*rate2 - f!(4.0)*c2*c3*r1*r2*r3*rate2 - f!(4.0)*c2*c3*r2*r2*r3*rate2),
-                r2*(-f!(2.0)*c1*r1*r2*rate - f!(4.0)*c1*c3*r1*r2*r3*rate2 - f!(4.0)*c1*c3*r1*r2*r2*rate2 - f!(4.0)*c1*c2*r1*r2*r2*rate2 - f!(24.0)*c1*c2*c3*g*r1*r2*r2*r3*rate3 + f!(24.0)*c1*c2*c3*r1*r2*r2*r3*rate3 + f!(3.0)*r2 - f!(2.0)*c3*r1*r2*rate - f!(2.0)*c3*r2*r3*rate - f!(2.0)*c3*r2*r2*rate - f!(2.0)*c2*r1*r2*rate - f!(2.0)*c2*r2*r2*rate + f!(4.0)*c2*c3*g*r1*r2*r3*rate2 + f!(4.0)*c2*c3*g*r2*r2*r3*rate2 - f!(4.0)*c2*c3*r1*r2*r3*rate2 - f!(4.0)*c2*c3*r2*r2*r3*rate2),
-                r2*(-f!(2.0)*c1*r1*r2*rate + f!(4.0)*c1*c3*r1*r2*r3*rate2 + f!(4.0)*c1*c3*r1*r2*r2*rate2 + f!(4.0)*c1*c2*r1*r2*r2*rate2 + f!(8.0)*c1*c2*c3*g*r1*r2*r2*r3*rate3 - f!(8.0)*c1*c2*c3*r1*r2*r2*r3*rate3 + r2 - f!(2.0)*c3*r1*r2*rate - f!(2.0)*c3*r2*r3*rate - f!(2.0)*c3*r2*r2*rate - f!(2.0)*c2*r1*r2*rate - f!(2.0)*c2*r2*r2*rate - f!(4.0)*c2*c3*g*r1*r2*r3*rate2 - f!(4.0)*c2*c3*g*r2*r2*r3*rate2 + f!(4.0)*c2*c3*r1*r2*r3*rate2 + f!(4.0)*c2*c3*r2*r2*r3*rate2),
+                f!(4.0)*c1*c2*r1*r2*r2*rate2 + f!(8.0)*c1*c2*c3*r1*r2*r2*r3*rate3 - f!(8.0)*c1*c2*c3*g*r1*r2*r2*r3*rate3 + f!(2.0)*c1*r1*r2*rate + f!(4.0)*c1*c3*r1*r2*r3*rate2 + f!(4.0)*c1*c3*r1*r2*r2*rate2 + f!(2.0)*c2*r1*r2*rate + f!(2.0)*c2*r2*r2*rate + f!(4.0)*c2*c3*r1*r2*r3*rate2 + f!(4.0)*c2*c3*r2*r2*r3*rate2 - f!(4.0)*c2*c3*g*r1*r2*r3*rate2 - f!(4.0)*c2*c3*g*r2*r2*r3*rate2 + f!(2.0)*r1 + r2 + f!(4.0)*c3*r1*r3*rate + f!(2.0)*c3*r1*r2*rate + f!(2.0)*c3*r2*r3*rate + f!(2.0)*c3*r2*r2*rate,
+                -f!(4.0)*c1*c2*r1*r2*r2*rate2 - f!(24.0)*c1*c2*c3*r1*r2*r2*r3*rate3 + f!(24.0)*c1*c2*c3*g*r1*r2*r2*r3*rate3 + f!(2.0)*c1*r1*r2*rate - f!(4.0)*c1*c3*r1*r2*r3*rate2 - f!(4.0)*c1*c3*r1*r2*r2*rate2 + f!(2.0)*c2*r1*r2*rate + f!(2.0)*c2*r2*r2*rate - f!(4.0)*c2*c3*r1*r2*r3*rate2 - f!(4.0)*c2*c3*r2*r2*r3*rate2 + f!(4.0)*c2*c3*g*r1*r2*r3*rate2 + f!(4.0)*c2*c3*g*r2*r2*r3*rate2 + f!(6.0)*r1 + f!(3.0)*r2 + f!(4.0)*c3*r1*r3*rate + f!(2.0)*c3*r1*r2*rate + f!(2.0)*c3*r2*r3*rate + f!(2.0)*c3*r2*r2*rate,
+                -f!(4.0)*c1*c2*r1*r2*r2*rate2 + f!(24.0)*c1*c2*c3*r1*r2*r2*r3*rate3 - f!(24.0)*c1*c2*c3*g*r1*r2*r2*r3*rate3 - f!(2.0)*c1*r1*r2*rate - f!(4.0)*c1*c3*r1*r2*r3*rate2 - f!(4.0)*c1*c3*r1*r2*r2*rate2 - f!(2.0)*c2*r1*r2*rate - f!(2.0)*c2*r2*r2*rate - f!(4.0)*c2*c3*r1*r2*r3*rate2 - f!(4.0)*c2*c3*r2*r2*r3*rate2 + f!(4.0)*c2*c3*g*r1*r2*r3*rate2 + f!(4.0)*c2*c3*g*r2*r2*r3*rate2 + f!(6.0)*r1 + f!(3.0)*r2 - f!(4.0)*c3*r1*r3*rate - f!(2.0)*c3*r1*r2*rate - f!(2.0)*c3*r2*r3*rate - f!(2.0)*c3*r2*r2*rate,
+                f!(4.0)*c1*c2*r1*r2*r2*rate2 - f!(8.0)*c1*c2*c3*r1*r2*r2*r3*rate3 + f!(8.0)*c1*c2*c3*g*r1*r2*r2*r3*rate3 - f!(2.0)*c1*r1*r2*rate + f!(4.0)*c1*c3*r1*r2*r3*rate2 + f!(4.0)*c1*c3*r1*r2*r2*rate2 - f!(2.0)*c2*r1*r2*rate - f!(2.0)*c2*r2*r2*rate + f!(4.0)*c2*c3*r1*r2*r3*rate2 + f!(4.0)*c2*c3*r2*r2*r3*rate2 - f!(4.0)*c2*c3*g*r1*r2*r3*rate2 - f!(4.0)*c2*c3*g*r2*r2*r3*rate2 + f!(2.0)*r1 + r2 - f!(4.0)*c3*r1*r3*rate - f!(2.0)*c3*r1*r2*rate - f!(2.0)*c3*r2*r3*rate - f!(2.0)*c3*r2*r2*rate,
             ],
             [
-                f!(1.0) - f!(2.0)*c3*g*r3*rate + f!(2.0)*c3*r2*rate + f!(2.0)*c3*r3*rate + f!(2.0)*c2*r2*rate + f!(2.0)*c2*r1*rate - f!(4.0)*c2*c3*g*r1*r3*rate2 + f!(4.0)*c2*c3*r2*r3*rate2 + f!(4.0)*c2*c3*r1*r2*rate2 + f!(4.0)*c2*c3*r1*r3*rate2 + f!(2.0)*c1*r1*rate - f!(4.0)*c1*c3*g*r1*r3*rate2 + f!(4.0)*c1*c3*r1*r2*rate2 + f!(4.0)*c1*c3*r1*r3*rate2 + f!(4.0)*c1*c2*r1*r2*rate2 + f!(8.0)*c1*c2*c3*r1*r2*r3*rate3,
-                f!(3.0) - f!(2.0)*c3*g*r3*rate + f!(2.0)*c3*r2*rate + f!(2.0)*c3*r3*rate + f!(2.0)*c2*r2*rate + f!(2.0)*c2*r1*rate + f!(4.0)*c2*c3*g*r1*r3*rate2 - f!(4.0)*c2*c3*r2*r3*rate2 - f!(4.0)*c2*c3*r1*r2*rate2 - f!(4.0)*c2*c3*r1*r3*rate2 + f!(2.0)*c1*r1*rate + f!(4.0)*c1*c3*g*r1*r3*rate2 - f!(4.0)*c1*c3*r1*r2*rate2 - f!(4.0)*c1*c3*r1*r3*rate2 - f!(4.0)*c1*c2*r1*r2*rate2 - f!(24.0)*c1*c2*c3*r1*r2*r3*rate3,
-                f!(3.0) + f!(2.0)*c3*g*r3*rate - f!(2.0)*c3*r2*rate - f!(2.0)*c3*r3*rate - f!(2.0)*c2*r2*rate - f!(2.0)*c2*r1*rate + f!(4.0)*c2*c3*g*r1*r3*rate2 - f!(4.0)*c2*c3*r2*r3*rate2 - f!(4.0)*c2*c3*r1*r2*rate2 - f!(4.0)*c2*c3*r1*r3*rate2 - f!(2.0)*c1*r1*rate + f!(4.0)*c1*c3*g*r1*r3*rate2 - f!(4.0)*c1*c3*r1*r2*rate2 - f!(4.0)*c1*c3*r1*r3*rate2 - f!(4.0)*c1*c2*r1*r2*rate2 + f!(24.0)*c1*c2*c3*r1*r2*r3*rate3,
-                f!(1.0) + f!(2.0)*c3*g*r3*rate - f!(2.0)*c3*r2*rate - f!(2.0)*c3*r3*rate - f!(2.0)*c2*r2*rate - f!(2.0)*c2*r1*rate - f!(4.0)*c2*c3*g*r1*r3*rate2 + f!(4.0)*c2*c3*r2*r3*rate2 + f!(4.0)*c2*c3*r1*r2*rate2 + f!(4.0)*c2*c3*r1*r3*rate2 - f!(2.0)*c1*r1*rate - f!(4.0)*c1*c3*g*r1*r3*rate2 + f!(4.0)*c1*c3*r1*r2*rate2 + f!(4.0)*c1*c3*r1*r3*rate2 + f!(4.0)*c1*c2*r1*r2*rate2 - f!(8.0)*c1*c2*c3*r1*r2*r3*rate3,
+                f!(2.0)*c1*r1*rate + f!(4.0)*c1*c3*r1*r2*rate2 + f!(4.0)*c1*c3*r1*r3*rate2 - f!(4.0)*c1*c3*g*r1*r3*rate2 + f!(4.0)*c1*c2*r1*r2*rate2 + f!(8.0)*c1*c2*c3*r1*r2*r3*rate3 + f!(1.0) + f!(2.0)*c3*r2*rate + f!(2.0)*c3*r3*rate - f!(2.0)*c3*g*r3*rate + f!(2.0)*c2*r2*rate + f!(2.0)*c2*r1*rate + f!(4.0)*c2*c3*r2*r3*rate2 + f!(4.0)*c2*c3*r1*r2*rate2 + f!(4.0)*c2*c3*r1*r3*rate2 - f!(4.0)*c2*c3*g*r1*r3*rate2 + f!(8.0)*c2*c2*r1*r2*rate2 + f!(16.0)*c2*c2*c3*r1*r2*r3*rate3,
+                f!(2.0)*c1*r1*rate - f!(4.0)*c1*c3*r1*r2*rate2 - f!(4.0)*c1*c3*r1*r3*rate2 + f!(4.0)*c1*c3*g*r1*r3*rate2 - f!(4.0)*c1*c2*r1*r2*rate2 - f!(24.0)*c1*c2*c3*r1*r2*r3*rate3 + f!(3.0) + f!(2.0)*c3*r2*rate + f!(2.0)*c3*r3*rate - f!(2.0)*c3*g*r3*rate + f!(2.0)*c2*r2*rate + f!(2.0)*c2*r1*rate - f!(4.0)*c2*c3*r2*r3*rate2 - f!(4.0)*c2*c3*r1*r2*rate2 - f!(4.0)*c2*c3*r1*r3*rate2 + f!(4.0)*c2*c3*g*r1*r3*rate2 - f!(8.0)*c2*c2*r1*r2*rate2 - f!(48.0)*c2*c2*c3*r1*r2*r3*rate3,
+                -f!(2.0)*c1*r1*rate - f!(4.0)*c1*c3*r1*r2*rate2 - f!(4.0)*c1*c3*r1*r3*rate2 + f!(4.0)*c1*c3*g*r1*r3*rate2 - f!(4.0)*c1*c2*r1*r2*rate2 + f!(24.0)*c1*c2*c3*r1*r2*r3*rate3 + f!(3.0) - f!(2.0)*c3*r2*rate - f!(2.0)*c3*r3*rate + f!(2.0)*c3*g*r3*rate - f!(2.0)*c2*r2*rate - f!(2.0)*c2*r1*rate - f!(4.0)*c2*c3*r2*r3*rate2 - f!(4.0)*c2*c3*r1*r2*rate2 - f!(4.0)*c2*c3*r1*r3*rate2 + f!(4.0)*c2*c3*g*r1*r3*rate2 - f!(8.0)*c2*c2*r1*r2*rate2 + f!(48.0)*c2*c2*c3*r1*r2*r3*rate3,
+                -f!(2.0)*c1*r1*rate + f!(4.0)*c1*c3*r1*r2*rate2 + f!(4.0)*c1*c3*r1*r3*rate2 - f!(4.0)*c1*c3*g*r1*r3*rate2 + f!(4.0)*c1*c2*r1*r2*rate2 - f!(8.0)*c1*c2*c3*r1*r2*r3*rate3 + f!(1.0) - f!(2.0)*c3*r2*rate - f!(2.0)*c3*r3*rate + f!(2.0)*c3*g*r3*rate - f!(2.0)*c2*r2*rate - f!(2.0)*c2*r1*rate + f!(4.0)*c2*c3*r2*r3*rate2 + f!(4.0)*c2*c3*r1*r2*rate2 + f!(4.0)*c2*c3*r1*r3*rate2 - f!(4.0)*c2*c3*g*r1*r3*rate2 + f!(8.0)*c2*c2*r1*r2*rate2 - f!(16.0)*c2*c2*c3*r1*r2*r3*rate3,
             ],
             [
-                f!(2.0)*c1*r1*rate - f!(4.0)*c1*c3*g*r1*r3*rate2 + f!(4.0)*c1*c3*r1*r2*rate2 + f!(4.0)*c1*c3*r1*r3*rate2 + f!(4.0)*c1*c2*r1*r2*rate2 + f!(8.0)*c1*c2*c3*r1*r2*r3*rate3 + f!(1.0) - f!(2.0)*c3*g*r3*rate + f!(2.0)*c3*r2*rate + f!(2.0)*c3*r3*rate + f!(2.0)*c2*r1*rate + f!(2.0)*c2*r2*rate - f!(4.0)*c2*c3*g*r1*r3*rate2 + f!(4.0)*c2*c3*r1*r2*rate2 + f!(4.0)*c2*c3*r1*r3*rate2 + f!(4.0)*c2*c3*r2*r3*rate2,
-                f!(2.0)*c1*r1*rate + f!(4.0)*c1*c3*g*r1*r3*rate2 - f!(4.0)*c1*c3*r1*r2*rate2 - f!(4.0)*c1*c3*r1*r3*rate2 - f!(4.0)*c1*c2*r1*r2*rate2 - f!(24.0)*c1*c2*c3*r1*r2*r3*rate3 + f!(3.0) - f!(2.0)*c3*g*r3*rate + f!(2.0)*c3*r2*rate + f!(2.0)*c3*r3*rate + f!(2.0)*c2*r1*rate + f!(2.0)*c2*r2*rate + f!(4.0)*c2*c3*g*r1*r3*rate2 - f!(4.0)*c2*c3*r1*r2*rate2 - f!(4.0)*c2*c3*r1*r3*rate2 - f!(4.0)*c2*c3*r2*r3*rate2,
-                -f!(2.0)*c1*r1*rate + f!(4.0)*c1*c3*g*r1*r3*rate2 - f!(4.0)*c1*c3*r1*r2*rate2 - f!(4.0)*c1*c3*r1*r3*rate2 - f!(4.0)*c1*c2*r1*r2*rate2 + f!(24.0)*c1*c2*c3*r1*r2*r3*rate3 + f!(3.0) + f!(2.0)*c3*g*r3*rate - f!(2.0)*c3*r2*rate - f!(2.0)*c3*r3*rate - f!(2.0)*c2*r1*rate - f!(2.0)*c2*r2*rate + f!(4.0)*c2*c3*g*r1*r3*rate2 - f!(4.0)*c2*c3*r1*r2*rate2 - f!(4.0)*c2*c3*r1*r3*rate2 - f!(4.0)*c2*c3*r2*r3*rate2,
-                -f!(2.0)*c1*r1*rate - f!(4.0)*c1*c3*g*r1*r3*rate2 + f!(4.0)*c1*c3*r1*r2*rate2 + f!(4.0)*c1*c3*r1*r3*rate2 + f!(4.0)*c1*c2*r1*r2*rate2 - f!(8.0)*c1*c2*c3*r1*r2*r3*rate3 + f!(1.0) + f!(2.0)*c3*g*r3*rate - f!(2.0)*c3*r2*rate - f!(2.0)*c3*r3*rate - f!(2.0)*c2*r1*rate - f!(2.0)*c2*r2*rate - f!(4.0)*c2*c3*g*r1*r3*rate2 + f!(4.0)*c2*c3*r1*r2*rate2 + f!(4.0)*c2*c3*r1*r3*rate2 + f!(4.0)*c2*c3*r2*r3*rate2,
-            ]
+                f!(2.0)*c1*r1*rate + f!(4.0)*c1*c3*r1*r2*rate2 + f!(4.0)*c1*c3*r1*r3*rate2 - f!(4.0)*c1*c3*g*r1*r3*rate2 + f!(4.0)*c1*c2*r1*r2*rate2 + f!(8.0)*c1*c2*c3*r1*r2*r3*rate3 + f!(1.0) + f!(2.0)*c3*r2*rate + f!(2.0)*c3*r3*rate - f!(2.0)*c3*g*r3*rate + f!(2.0)*c2*r1*rate + f!(2.0)*c2*r2*rate + f!(4.0)*c2*c3*r1*r2*rate2 + f!(4.0)*c2*c3*r1*r3*rate2 + f!(4.0)*c2*c3*r2*r3*rate2 - f!(4.0)*c2*c3*g*r1*r3*rate2 + f!(8.0)*c2*c2*r1*r2*rate2 + f!(16.0)*c2*c2*c3*r1*r2*r3*rate3,
+                f!(2.0)*c1*r1*rate - f!(4.0)*c1*c3*r1*r2*rate2 - f!(4.0)*c1*c3*r1*r3*rate2 + f!(4.0)*c1*c3*g*r1*r3*rate2 - f!(4.0)*c1*c2*r1*r2*rate2 - f!(24.0)*c1*c2*c3*r1*r2*r3*rate3 + f!(3.0) + f!(2.0)*c3*r2*rate + f!(2.0)*c3*r3*rate - f!(2.0)*c3*g*r3*rate + f!(2.0)*c2*r1*rate + f!(2.0)*c2*r2*rate - f!(4.0)*c2*c3*r1*r2*rate2 - f!(4.0)*c2*c3*r1*r3*rate2 - f!(4.0)*c2*c3*r2*r3*rate2 + f!(4.0)*c2*c3*g*r1*r3*rate2 - f!(8.0)*c2*c2*r1*r2*rate2 - f!(48.0)*c2*c2*c3*r1*r2*r3*rate3,
+                -f!(2.0)*c1*r1*rate - f!(4.0)*c1*c3*r1*r2*rate2 - f!(4.0)*c1*c3*r1*r3*rate2 + f!(4.0)*c1*c3*g*r1*r3*rate2 - f!(4.0)*c1*c2*r1*r2*rate2 + f!(24.0)*c1*c2*c3*r1*r2*r3*rate3 + f!(3.0) - f!(2.0)*c3*r2*rate - f!(2.0)*c3*r3*rate + f!(2.0)*c3*g*r3*rate - f!(2.0)*c2*r1*rate - f!(2.0)*c2*r2*rate - f!(4.0)*c2*c3*r1*r2*rate2 - f!(4.0)*c2*c3*r1*r3*rate2 - f!(4.0)*c2*c3*r2*r3*rate2 + f!(4.0)*c2*c3*g*r1*r3*rate2 - f!(8.0)*c2*c2*r1*r2*rate2 + f!(48.0)*c2*c2*c3*r1*r2*r3*rate3,
+                -f!(2.0)*c1*r1*rate + f!(4.0)*c1*c3*r1*r2*rate2 + f!(4.0)*c1*c3*r1*r3*rate2 - f!(4.0)*c1*c3*g*r1*r3*rate2 + f!(4.0)*c1*c2*r1*r2*rate2 - f!(8.0)*c1*c2*c3*r1*r2*r3*rate3 + f!(1.0) - f!(2.0)*c3*r2*rate - f!(2.0)*c3*r3*rate + f!(2.0)*c3*g*r3*rate - f!(2.0)*c2*r1*rate - f!(2.0)*c2*r2*rate + f!(4.0)*c2*c3*r1*r2*rate2 + f!(4.0)*c2*c3*r1*r3*rate2 + f!(4.0)*c2*c3*r2*r3*rate2 - f!(4.0)*c2*c3*g*r1*r3*rate2 + f!(8.0)*c2*c2*r1*r2*rate2 - f!(16.0)*c2*c2*c3*r1*r2*r3*rate3,
+            ],
         ]))
     }
 }
@@ -265,7 +265,7 @@ mod test
     #[test]
     fn plot()
     {
-        let mut filter = ThirdOrderSallenKeyFilter::new(470.0, 15.0e3, 16.0e3, 47.0e-9, 2.7e-9, 2.7e-9, 2.0);
+        let mut filter = ThirdOrderSallenKeyFilter::new(470.0, 15.0e3, 16.0e3, 47.0e-9, 2.7e-9, 2.7e-9, 1.3846153846153846);
         crate::tests::plot_freq(&mut filter, false).unwrap();
     }
 }

diff --git a/src/iir/second/second_order_sallen_key_filter.rs b/src/iir/second/second_order_sallen_key_filter.rs
@@ -98,23 +98,23 @@ where
         ([], [
             [
                 g*(g),
-                g*(f!(2.0)*g),
+                g*f!(2.0),
                 g*(g),
             ],
             [
-                c1*g*r1*rate*(f!(2.0)*c1*g*r1*rate),
+                c1*g*r1*rate*f!(2.0),
                 f!(0.0),
-                c1*g*r1*rate*(-f!(2.0)*c1*g*r1*rate),
+                c1*g*r1*rate*(-f!(2.0)),
             ],
             [
-                c2*g*r2*rate*(f!(2.0)*c2*g*r2*rate),
+                c2*g*r2*rate*(f!(2.0)),
                 f!(0.0),
-                c2*g*r2*rate*(-f!(2.0)*c2*g*r2*rate),
+                c2*g*r2*rate*(-f!(2.0)),
             ],
             [
-                c1*c2*g*r1*r2*rate2*(f!(4.0)*c1*c2*g*r1*r2*rate2),
-                c1*c2*g*r1*r2*rate2*(-f!(8.0)*c1*c2*g*r1*r2*rate2),
-                c1*c2*g*r1*r2*rate2*(f!(4.0)*c1*c2*g*r1*r2*rate2),
+                c1*c2*g*r1*r2*rate2*(f!(4.0)),
+                c1*c2*g*r1*r2*rate2*(-f!(8.0)),
+                c1*c2*g*r1*r2*rate2*(f!(4.0)),
             ]
         ])
     }
@@ -153,19 +153,6 @@ where
         ]))
     }
 }
-
-/*
-let b0 = [
-];
-let a0 = ;
-let b1 = ;
-let a1 = ;
-let b2 = ;
-let a2 = ;
-let b3 = ;
-let a3 = ;
-
-*/
 
 impl<F, R1, R2, C1, C2> FilterStaticInternals<F> for SecondOrderSallenKeyFilter<F, R1, R2, C1, C2>
 where
